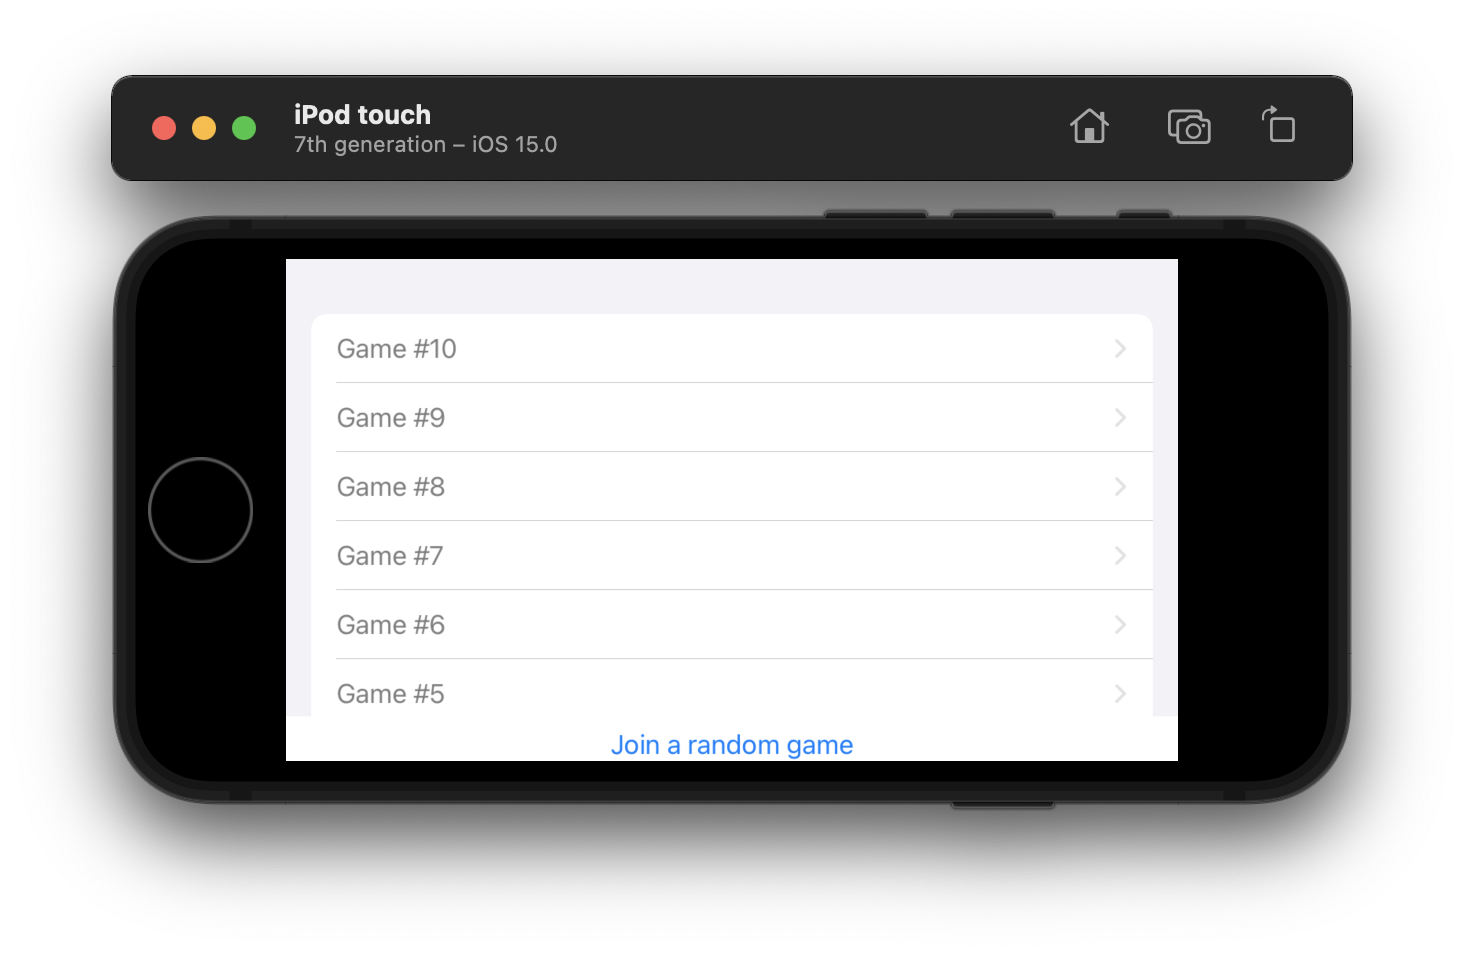
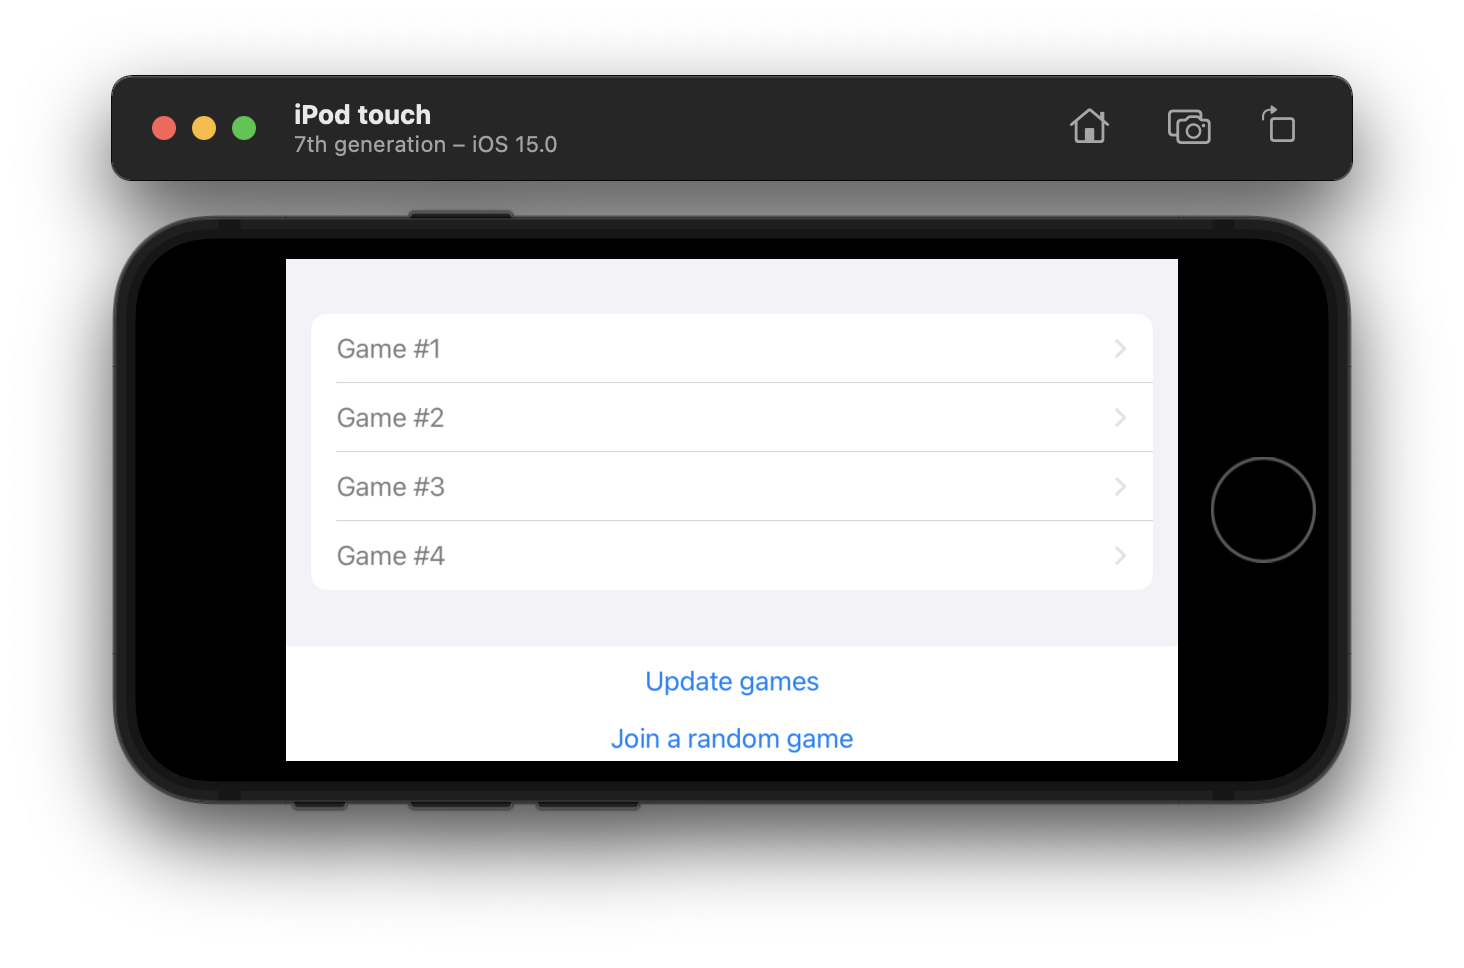
Use vm.currentGames without dollar sign

diff --git a/NaviLinkProg/NaviLinkProg/ContentView.swift b/NaviLinkProg/NaviLinkProg/ContentView.swift
@@ -13,7 +13,7 @@ struct ContentView: View {
     var body: some View {
         VStack {
             List {
-                ForEach((1...10).reversed(), id: \.self) { gameNumber in
+                ForEach(vm.currentGames, id: \.self) { gameNumber in
                     NavigationLink(destination: GameView(gameNumber: gameNumber)) {
                         Text("Game #\(gameNumber)")
                     }
@@ -21,9 +21,14 @@ struct ContentView: View {
             }
 
             Button(
+                action: { vm.updateCurrentGames() },
+                label: { Text("Update games") }
+            ).padding(4)
+
+            Button(
                 action: { vm.updateDisplayedGame() },
                 label: { Text("Join a random game") }
-            )
+            ).padding(4)
        }
     }
 }

diff --git a/NaviLinkProg/NaviLinkProg/GamesViewModel.swift b/NaviLinkProg/NaviLinkProg/GamesViewModel.swift
@@ -8,7 +8,7 @@
 import Foundation
 
 class GamesViewModel: ObservableObject /*, WebSocketDelegate */ {
-    @Published var currentGames: [Int] = []
+    @Published var currentGames: [Int] = [2, 3]
     @Published var displayedGame: Int = 0
     
     func updateCurrentGames() {
